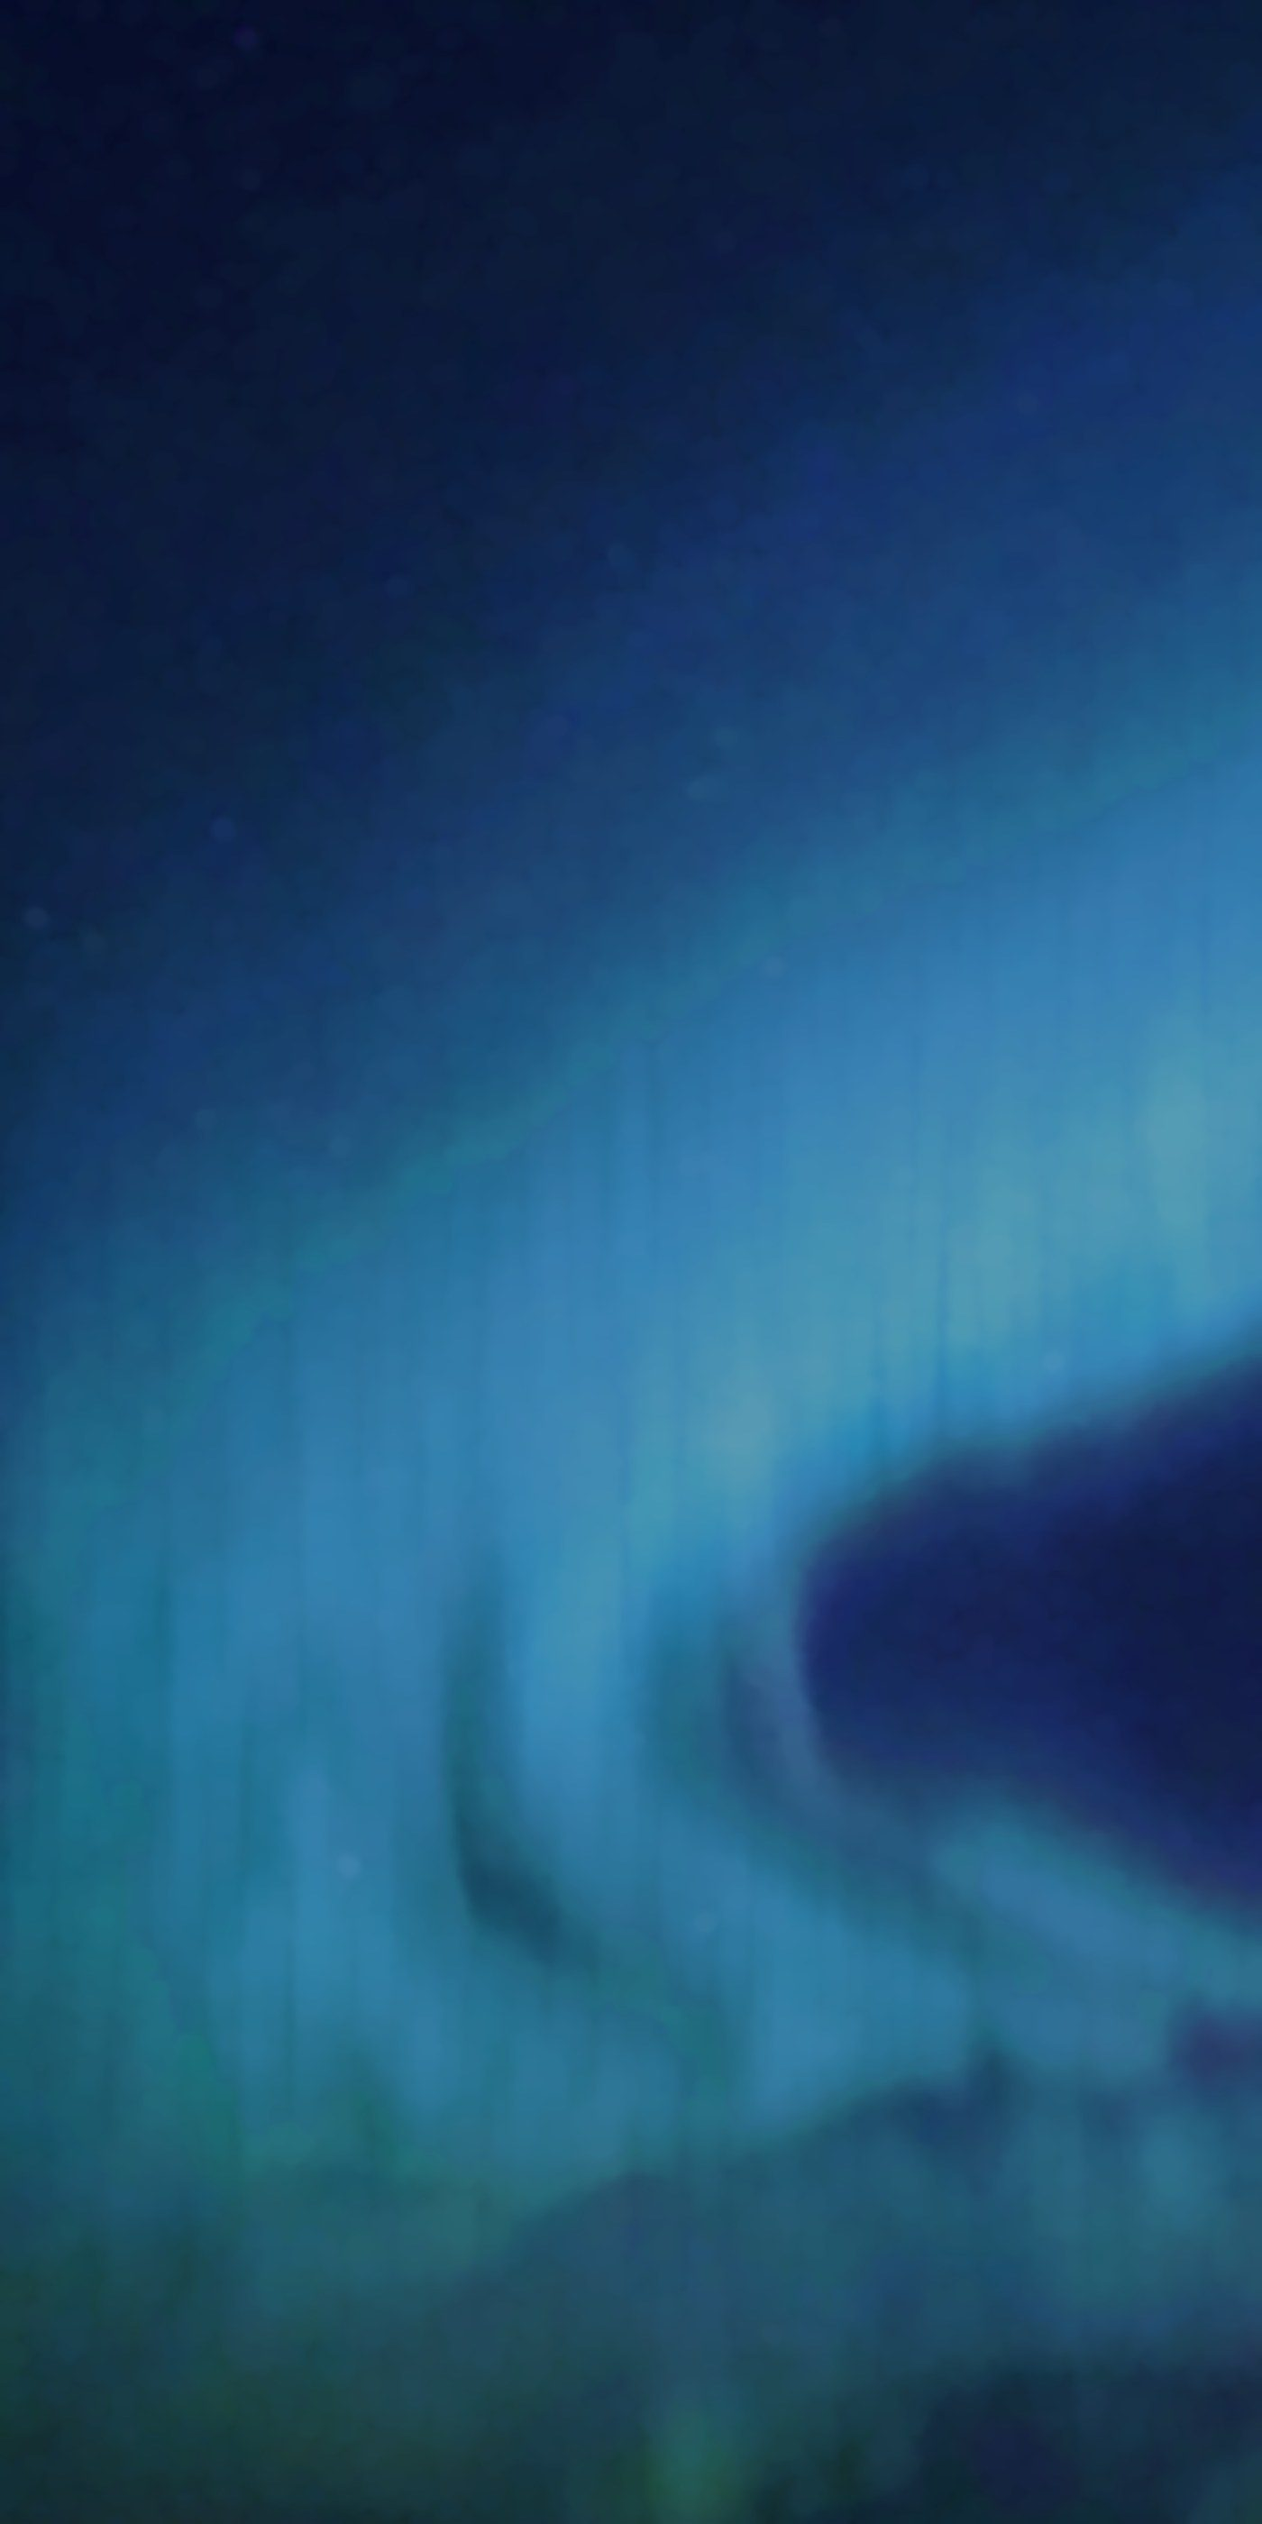
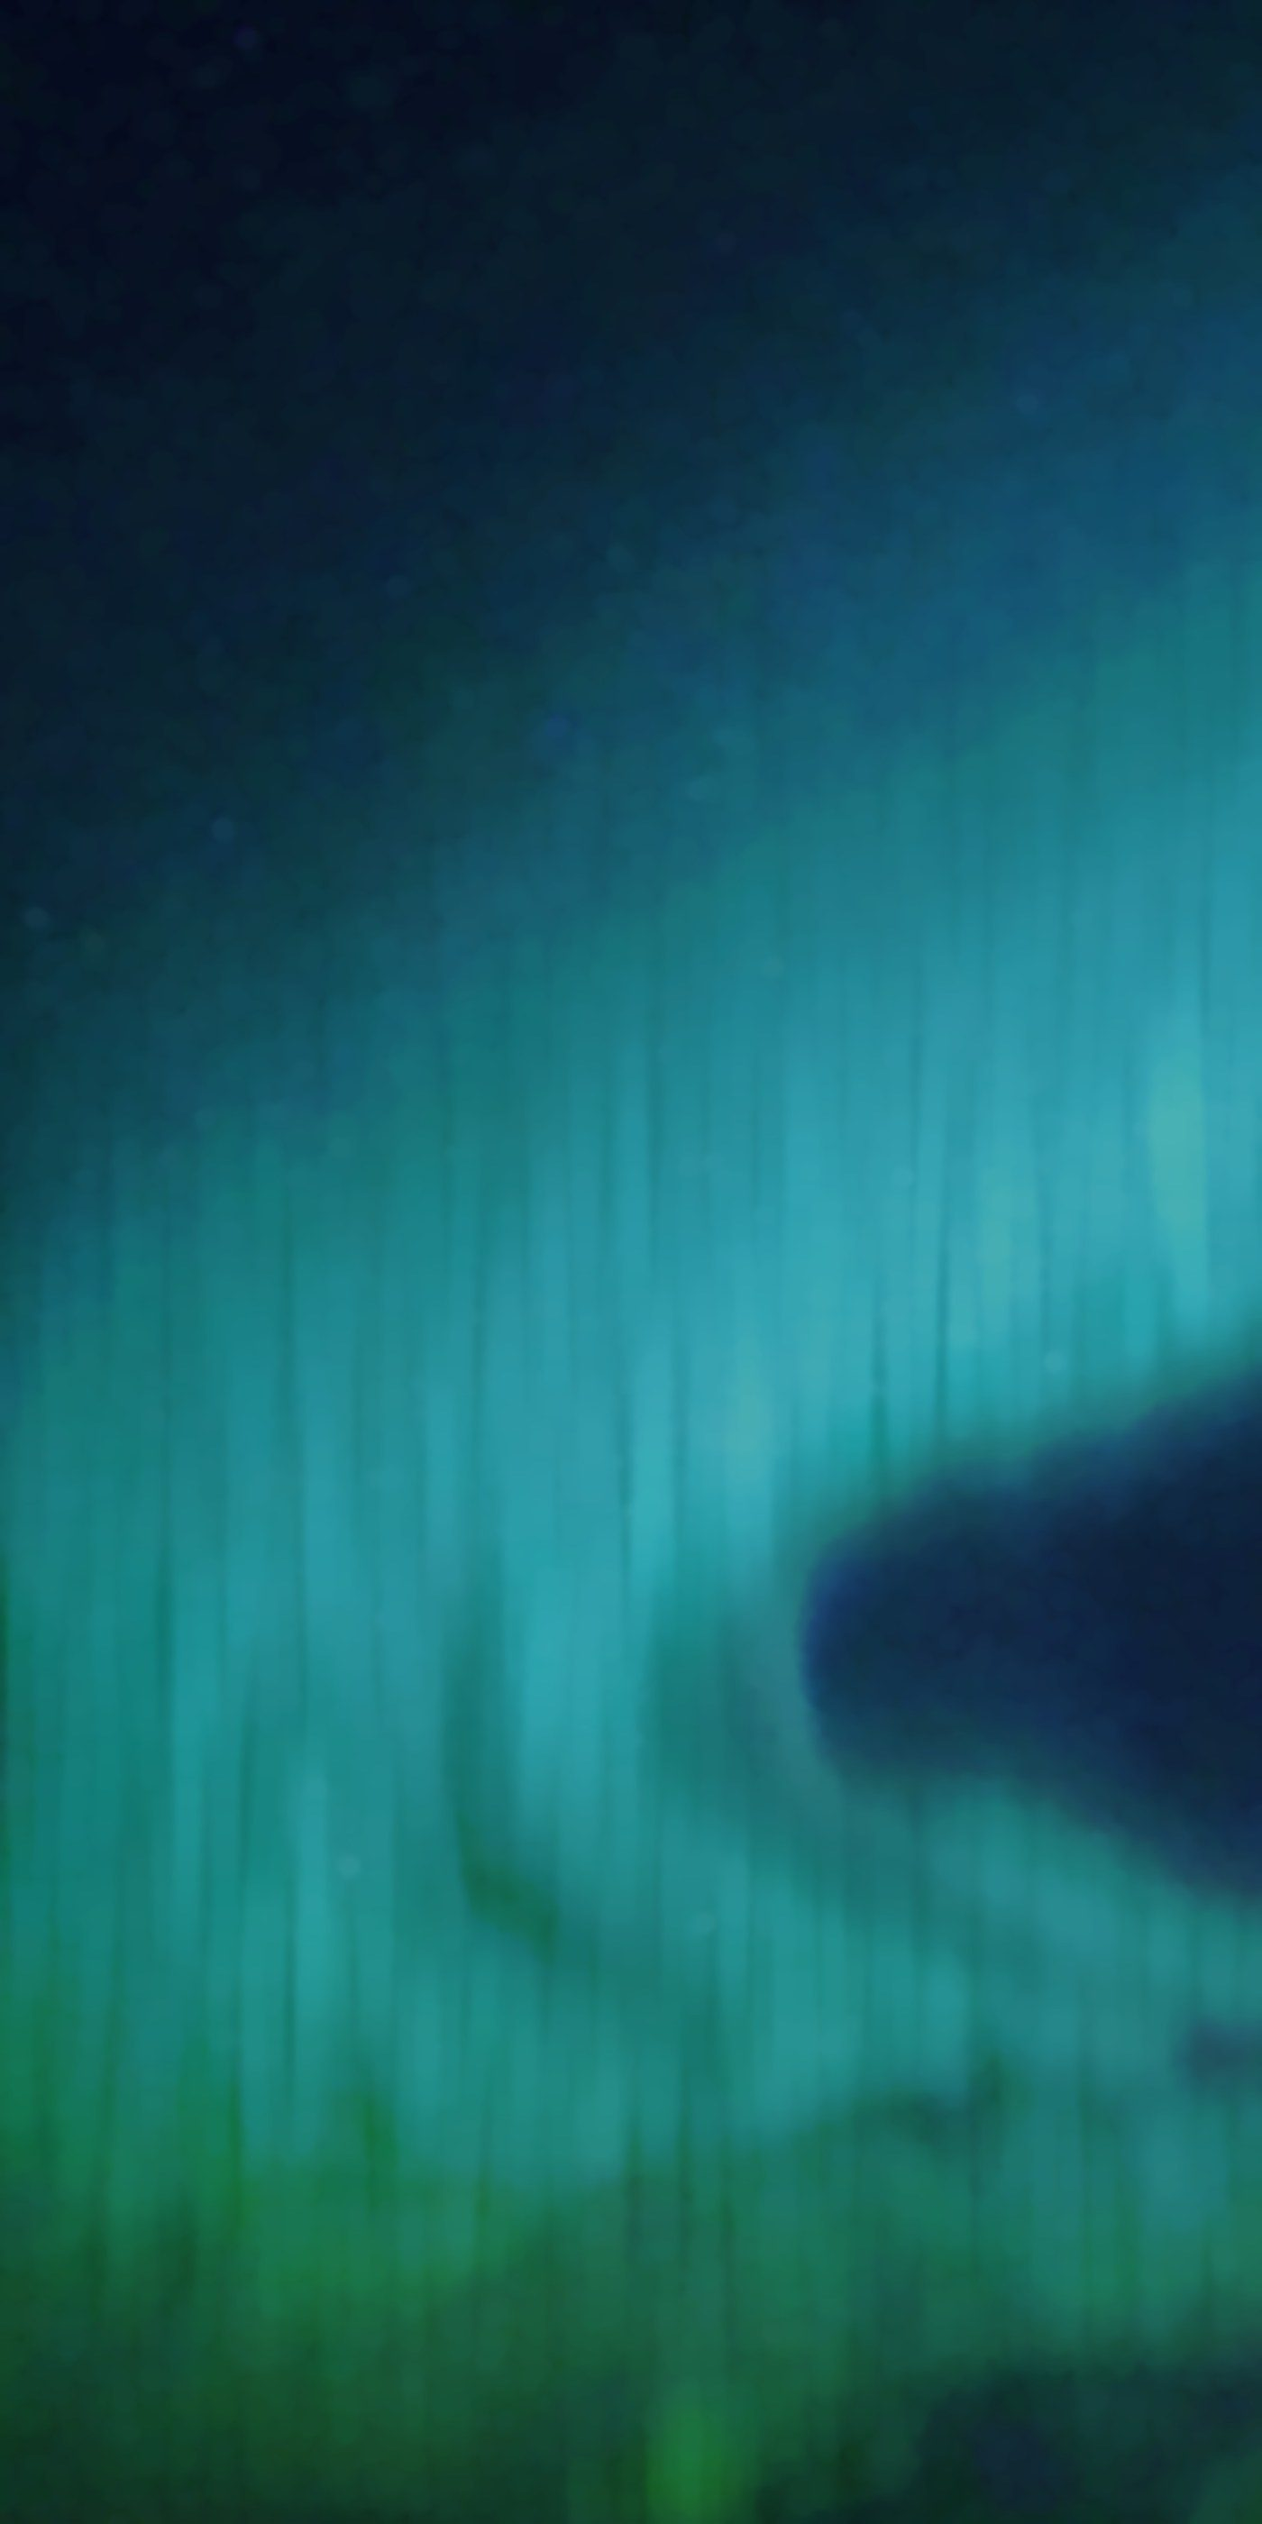
Switch the new design to the green aurora variant
- Green aurora photo and mint buttons instead of the blue ones
- Lexend for headings, buttons and form fields, Inter stays for small text
- Aurora dances a little faster

diff --git a/web/src/app/invitasjon/[token]/opengraph-image.tsx b/web/src/app/invitasjon/[token]/opengraph-image.tsx
@@ -22,25 +22,25 @@ export default async function Image({ params }: { params: Promise<{ token: strin
             <div style={{
                 width: "100%", height: "100%", display: "flex", flexDirection: "column", justifyContent: "center",
                 padding: "72px 88px", color: "#eef7f4", fontSize: 40,
-                backgroundColor: "#050d1c",
-                backgroundImage: "radial-gradient(60% 50% at 25% 20%, rgba(98, 195, 238, 0.45), transparent 70%), " +
+                backgroundColor: "#04101a",
+                backgroundImage: "radial-gradient(60% 50% at 25% 20%, rgba(114, 214, 189, 0.45), transparent 70%), " +
                     "radial-gradient(50% 45% at 80% 15%, rgba(60, 200, 210, 0.30), transparent 70%), " +
-                    "linear-gradient(180deg, #123a6b 0%, #050d1c 100%)",
+                    "linear-gradient(180deg, #0f4b57 0%, #04101a 100%)",
             }}>
                 <div style={{ display: "flex", marginBottom: 40 }}>
                     <div style={{
-                        width: 120, height: 120, borderRadius: 60, border: "4px solid #62c3ee",
-                        backgroundImage: "radial-gradient(circle at 40% 60%, rgba(98, 195, 238, 0.9), #06202f 70%)",
+                        width: 120, height: 120, borderRadius: 60, border: "4px solid #72d6bd",
+                        backgroundImage: "radial-gradient(circle at 40% 60%, rgba(114, 214, 189, 0.9), #06201f 70%)",
                     }}/>
                     <div style={{
-                        width: 120, height: 120, borderRadius: 60, border: "4px solid #62c3ee", marginLeft: -36,
-                        backgroundImage: "radial-gradient(circle at 60% 40%, rgba(60, 200, 210, 0.9), #06202f 70%)",
+                        width: 120, height: 120, borderRadius: 60, border: "4px solid #72d6bd", marginLeft: -36,
+                        backgroundImage: "radial-gradient(circle at 60% 40%, rgba(60, 200, 210, 0.9), #06201f 70%)",
                     }}/>
                 </div>
                 <div style={{ fontSize: 76, fontWeight: 800, color: "#eef7f4" }}>{title}</div>
                 <div style={{ marginTop: 20 }}>{what}</div>
                 {when && <div style={{ marginTop: 8, color: "#c3dad3" }}>{when}</div>}
-                <div style={{ marginTop: "auto", fontSize: 32, color: "#62c3ee" }}>bestiapp.no · Bestill med din besti</div>
+                <div style={{ marginTop: "auto", fontSize: 32, color: "#72d6bd" }}>bestiapp.no · Bestill med din besti</div>
             </div>
         ),
         size,

diff --git a/web/src/app/globals.css b/web/src/app/globals.css
@@ -1,25 +1,25 @@
 :root {
   color-scheme: dark;
-  /* Approved "granat" look (2026-10-29): navy sky, light blue buttons in one colour */
-  --color-bg: #050d1c;
+  /* Approved look (2026-10-29): dark night sky with green aurora, mint buttons in one colour */
+  --color-bg: #04101a;
   /* Frosted glass cards (blurred by --glass-blur) */
   --color-surface: linear-gradient(160deg, rgba(255, 255, 255, 0.1), rgba(255, 255, 255, 0.02) 40%), rgba(6, 28, 32, 0.46);
   --glass-blur: blur(20px) saturate(160%);
   --color-text: #eef7f4;
-  --color-heading: #d4eefc;
+  --color-heading: #bff3e3;
   --color-muted: #c3dad3;
-  --color-primary: #62c3ee;
-  --color-on-primary: #06202f;
+  --color-primary: #72d6bd;
+  --color-on-primary: #06201f;
   --radius: 12px;
-  --color-border: rgba(160, 215, 255, 0.26);
+  --color-border: rgba(150, 255, 230, 0.26);
   --color-input-border: rgba(190, 240, 225, 0.38);
   --color-input-bg: rgba(3, 14, 20, 0.5);
-  --color-primary-soft: rgba(98, 195, 238, 0.14);
-  --color-primary-dark: #9ad8f6;
+  --color-primary-soft: rgba(114, 214, 189, 0.14);
+  --color-primary-dark: #7cf5d8;
   --color-success: #8fd6a0;
   --color-warning: #f2c46d;
   --color-danger: #ff9b85;
-  --font-heading: var(--font-poppins), system-ui, sans-serif;
+  --font-heading: var(--font-lexend), system-ui, sans-serif;
   --font-body: var(--font-inter), system-ui, sans-serif;
 }
 
@@ -57,7 +57,7 @@ button:disabled {
   cursor: progress;
 }
 
-/* Headings, buttons and form fields in Poppins, small text in Inter */
+/* Headings, buttons and form fields in Lexend, small text in Inter */
 :where(h1, h2, h3, h4, button, input, select, textarea, label) {
   font-family: var(--font-heading);
 }
@@ -72,7 +72,7 @@ h1 {
   text-shadow: 0 2px 18px rgba(2, 12, 16, 0.55);
 }
 
-/* Links without a style of their own: light blue like the buttons */
+/* Links without a style of their own: mint like the buttons */
 :where(a) {
   color: var(--color-primary-dark);
 }
@@ -99,8 +99,8 @@ input::placeholder, textarea::placeholder {
   :root {
     --color-surface: #071826;
     --glass-blur: none;
-    --color-border: #d4eefc;
-    --color-input-border: #d4eefc;
+    --color-border: #bff3e3;
+    --color-input-border: #bff3e3;
     --color-muted: #eef7f4;
     --color-heading: #eef7f4;
   }

diff --git a/web/src/app/panel/calendar.module.css b/web/src/app/panel/calendar.module.css
@@ -406,7 +406,7 @@ a.booking:hover {
     font-size: 0.8rem;
     color: var(--color-muted);
     text-decoration: none;
-    background: repeating-linear-gradient(135deg, rgba(160, 215, 255, 0.06) 0 8px, rgba(160, 215, 255, 0.12) 8px 16px);
+    background: repeating-linear-gradient(135deg, rgba(150, 255, 230, 0.06) 0 8px, rgba(150, 255, 230, 0.12) 8px 16px);
     border-left: 3px solid var(--color-muted);
 }
 
@@ -424,14 +424,14 @@ a.booking:hover {
     padding: 4px 8px;
     font-size: 0.8rem;
     color: var(--color-muted);
-    background: rgba(160, 215, 255, 0.06);
+    background: rgba(150, 255, 230, 0.06);
     border-left: 3px dotted var(--color-muted);
     pointer-events: none;
 }
 
 .phoneCard.phoneBlocked {
     color: var(--color-muted);
-    background: repeating-linear-gradient(135deg, rgba(160, 215, 255, 0.06) 0 8px, rgba(160, 215, 255, 0.12) 8px 16px);
+    background: repeating-linear-gradient(135deg, rgba(150, 255, 230, 0.06) 0 8px, rgba(150, 255, 230, 0.12) 8px 16px);
     border-left-color: var(--color-muted);
 }
 
@@ -525,7 +525,7 @@ a.booking:hover {
 }
 
 .closedDay {
-    background: repeating-linear-gradient(135deg, rgba(160, 215, 255, 0.06) 0 8px, rgba(160, 215, 255, 0.12) 8px 16px);
+    background: repeating-linear-gradient(135deg, rgba(150, 255, 230, 0.06) 0 8px, rgba(150, 255, 230, 0.12) 8px 16px);
 }
 
 .closedLabel {
@@ -540,7 +540,7 @@ a.booking:hover {
     color: var(--color-muted);
     white-space: nowrap;
     text-overflow: ellipsis;
-    background: rgba(160, 215, 255, 0.12);
+    background: rgba(150, 255, 230, 0.12);
     border-radius: 4px;
 }
 

diff --git a/web/src/app/layout.tsx b/web/src/app/layout.tsx
@@ -1,5 +1,5 @@
 import type { Metadata, Viewport } from "next";
-import { Inter, Poppins } from "next/font/google";
+import { Inter, Lexend } from "next/font/google";
 import "./globals.css";
 import Header from "../components/Header/Header";
 import Footer from "../components/Footer/Footer";
@@ -8,10 +8,10 @@ import Aurora from "../components/Aurora/Aurora";
 import Analytics from "../components/Analytics/Analytics";
 
 // Headings, buttons and form fields
-const poppins = Poppins({
+const lexend = Lexend({
     subsets: ["latin", "latin-ext"],
-    weight: ["500", "600", "700"],
-    variable: "--font-poppins",
+    weight: ["400", "500", "600", "700"],
+    variable: "--font-lexend",
     display: "swap",
 });
 
@@ -36,14 +36,14 @@ export const metadata: Metadata = {
     robots: ALLOW_INDEXING ? undefined : { index: false, follow: false },
 };
 
-// Colour of the phone's status bar, same as the navy sky
+// Colour of the phone's status bar, same as the night sky
 export const viewport: Viewport = {
-    themeColor: "#050d1c",
+    themeColor: "#04101a",
 };
 
 export default function RootLayout({ children }: { children: React.ReactNode }) {
     return (
-        <html lang="nb" className={`${poppins.variable} ${inter.variable}`}>
+        <html lang="nb" className={`${lexend.variable} ${inter.variable}`}>
         <body>
         <Aurora />
         <Header />

diff --git a/web/src/app/invitasjon/[token]/page.module.css b/web/src/app/invitasjon/[token]/page.module.css
@@ -53,9 +53,9 @@
     height: 104px;
     border-radius: 50%;
     overflow: hidden;
-    background: #06202f;
+    background: #06201f;
     border: 2px solid var(--color-success);
-    box-shadow: 0 0 24px rgba(98, 195, 238, 0.25);
+    box-shadow: 0 0 24px rgba(114, 214, 189, 0.25);
 }
 
 .orbRight {
@@ -68,7 +68,7 @@
     position: absolute;
     inset: -15%;
     background:
-            radial-gradient(50% 35% at 35% 65%, rgba(98, 195, 238, 0.95), transparent 70%),
+            radial-gradient(50% 35% at 35% 65%, rgba(114, 214, 189, 0.95), transparent 70%),
             radial-gradient(45% 35% at 65% 40%, rgba(60, 200, 210, 0.85), transparent 70%),
             radial-gradient(40% 30% at 50% 85%, rgba(120, 150, 240, 0.7), transparent 70%);
     filter: blur(8px);
@@ -366,9 +366,9 @@
     width: 44px;
     height: 44px;
     border-radius: 50%;
-    background: #06202f;
+    background: #06201f;
     border: 2px solid var(--color-success);
-    box-shadow: 0 0 14px rgba(98, 195, 238, 0.25);
+    box-shadow: 0 0 14px rgba(114, 214, 189, 0.25);
     font-weight: 700;
     animation: seatIn 0.5s ease-out;
 }

diff --git a/web/src/components/Aurora/Aurora.tsx b/web/src/components/Aurora/Aurora.tsx
@@ -31,7 +31,7 @@ export default function Aurora() {
             <svg ref={svgRef} width="0" height="0" style={{ position: "absolute" }}>
                 <filter id="besti-warp" x="-10%" y="-10%" width="120%" height="120%">
                     <feTurbulence type="fractalNoise" baseFrequency="0.0025 0.008" numOctaves={2} seed={4} result="n">
-                        <animate attributeName="baseFrequency" dur="18s" values="0.002 0.006;0.0045 0.010;0.002 0.006" repeatCount="indefinite"/>
+                        <animate attributeName="baseFrequency" dur="14s" values="0.002 0.006;0.0045 0.010;0.002 0.006" repeatCount="indefinite"/>
                     </feTurbulence>
                     <feDisplacementMap in="SourceGraphic" in2="n" scale={95} xChannelSelector="R" yChannelSelector="G"/>
                 </filter>

diff --git a/web/src/components/Aurora/Aurora.module.css b/web/src/components/Aurora/Aurora.module.css
@@ -1,4 +1,4 @@
-/* Approved "granat" look (2026-10-29): aurora photo by Tomáš Malík / Unsplash, a slowly waving
+/* Approved look (2026-10-29, green aurora): aurora photo by Tomáš Malík / Unsplash, a slowly waving
    aurora layer on top and a few twinkling stars. Everything stands still with prefers-reduced-motion. */
 .sky {
     position: fixed;
@@ -28,7 +28,7 @@
     mix-blend-mode: screen;
     opacity: 0.7;
     filter: url(#besti-warp) saturate(1.2);
-    animation: wave 18s ease-in-out infinite alternate, breathe 7s ease-in-out infinite;
+    animation: wave 14s ease-in-out infinite alternate, breathe 5.5s ease-in-out infinite;
     -webkit-mask-image: linear-gradient(180deg, #000 0, #000 60%, transparent 98%);
     mask-image: linear-gradient(180deg, #000 0, #000 60%, transparent 98%);
 }

diff --git a/web/src/app/page.module.css b/web/src/app/page.module.css
@@ -28,7 +28,7 @@
     -webkit-backdrop-filter: var(--glass-blur);
     border: 1px solid var(--color-border);
     border-radius: 20px;
-    box-shadow: inset 0 1px 0 rgba(255, 255, 255, 0.18), 0 20px 50px rgba(0, 0, 0, 0.35), 0 0 40px rgba(98, 195, 238, 0.08);
+    box-shadow: inset 0 1px 0 rgba(255, 255, 255, 0.18), 0 20px 50px rgba(0, 0, 0, 0.35), 0 0 40px rgba(114, 214, 189, 0.08);
     color: var(--color-text);
 }
 
@@ -74,7 +74,7 @@
     align-items: center;
     justify-content: center;
     gap: 8px;
-    box-shadow: 0 0 0 1px rgba(255, 255, 255, 0.25) inset, 0 0 14px rgba(98, 195, 238, 0.3), 0 0 36px rgba(98, 195, 238, 0.12);
+    box-shadow: 0 0 0 1px rgba(255, 255, 255, 0.25) inset, 0 0 14px rgba(114, 214, 189, 0.3), 0 0 36px rgba(114, 214, 189, 0.12);
     cursor: pointer;
 }
 

diff --git a/web/src/app/panel/del/plakat/page.module.css b/web/src/app/panel/del/plakat/page.module.css
@@ -54,7 +54,7 @@
     align-items: center;
     text-align: center;
     background: #fff;
-    color: #06202f;
+    color: #06201f;
     border-radius: 6px;
     box-shadow: 0 12px 40px rgba(0, 0, 0, 0.35);
 }
@@ -64,7 +64,7 @@
     font-weight: 800;
     letter-spacing: 0.3em;
     font-size: 0.85rem;
-    color: #1a6f99;
+    color: #1f6f63;
 }
 
 .logo {
@@ -85,7 +85,7 @@
     margin: 2% 0 0;
     font-size: clamp(1.5rem, 7vw, 2.3rem);
     line-height: 1.15;
-    color: #0d4f75;
+    color: #0f4b57;
 }
 
 .qr {
@@ -105,7 +105,7 @@
     margin: 1% 0 0;
     font-size: clamp(0.85rem, 3.4vw, 1.05rem);
     overflow-wrap: anywhere;
-    color: #1a6f99;
+    color: #1f6f63;
 }
 
 .footer {

diff --git a/web/src/app/[slug]/bestill/bekreftet/page.module.css b/web/src/app/[slug]/bestill/bekreftet/page.module.css
@@ -21,13 +21,13 @@
     margin: 0 auto 16px;
     border-radius: 50%;
     overflow: hidden;
-    background: #06202f;
+    background: #06201f;
 }
 .glow {
     position: absolute;
     inset: -15%;
     background:
-            radial-gradient(50% 35% at 35% 65%, rgba(98, 195, 238, 0.95), transparent 70%),
+            radial-gradient(50% 35% at 35% 65%, rgba(114, 214, 189, 0.95), transparent 70%),
             radial-gradient(45% 35% at 65% 40%, rgba(60, 200, 210, 0.85), transparent 70%),
             radial-gradient(40% 30% at 50% 85%, rgba(120, 150, 240, 0.7), transparent 70%);
     filter: blur(8px);

diff --git a/web/src/app/min-besti/vurderinger/page.module.css b/web/src/app/min-besti/vurderinger/page.module.css
@@ -49,7 +49,7 @@
     min-height: 44px;
     font-size: 2rem;
     line-height: 1;
-    color: rgba(160, 215, 255, 0.3);
+    color: rgba(150, 255, 230, 0.3);
     cursor: pointer;
 }
 
@@ -59,7 +59,7 @@
 }
 
 .stars input:checked + label ~ label {
-    color: rgba(160, 215, 255, 0.3);
+    color: rgba(150, 255, 230, 0.3);
 }
 
 /* While hovering: gold up to the star under the mouse (.stars.stars = wins over the chosen star) */
@@ -68,7 +68,7 @@
 }
 
 .stars.stars label:hover ~ label {
-    color: rgba(160, 215, 255, 0.3);
+    color: rgba(150, 255, 230, 0.3);
 }
 
 .stars input:focus-visible + label {

diff --git a/web/src/components/Header/Header.module.css b/web/src/components/Header/Header.module.css
@@ -38,7 +38,7 @@
     font-size: 1.55rem;
     letter-spacing: -0.01em;
     color: var(--color-primary);
-    filter: drop-shadow(0 0 8px rgba(98, 195, 238, 0.45));
+    filter: drop-shadow(0 0 8px rgba(114, 214, 189, 0.45));
 }
 /* Small "Beta" badge next to the logo while the first businesses test BESTI */
 .beta {
@@ -81,7 +81,7 @@
     color: var(--color-on-primary);
     font-family: var(--font-heading);
     font-weight: 600;
-    box-shadow: 0 0 10px rgba(98, 195, 238, 0.25);
+    box-shadow: 0 0 10px rgba(114, 214, 189, 0.25);
     text-decoration: none;
     white-space: nowrap;
 }
